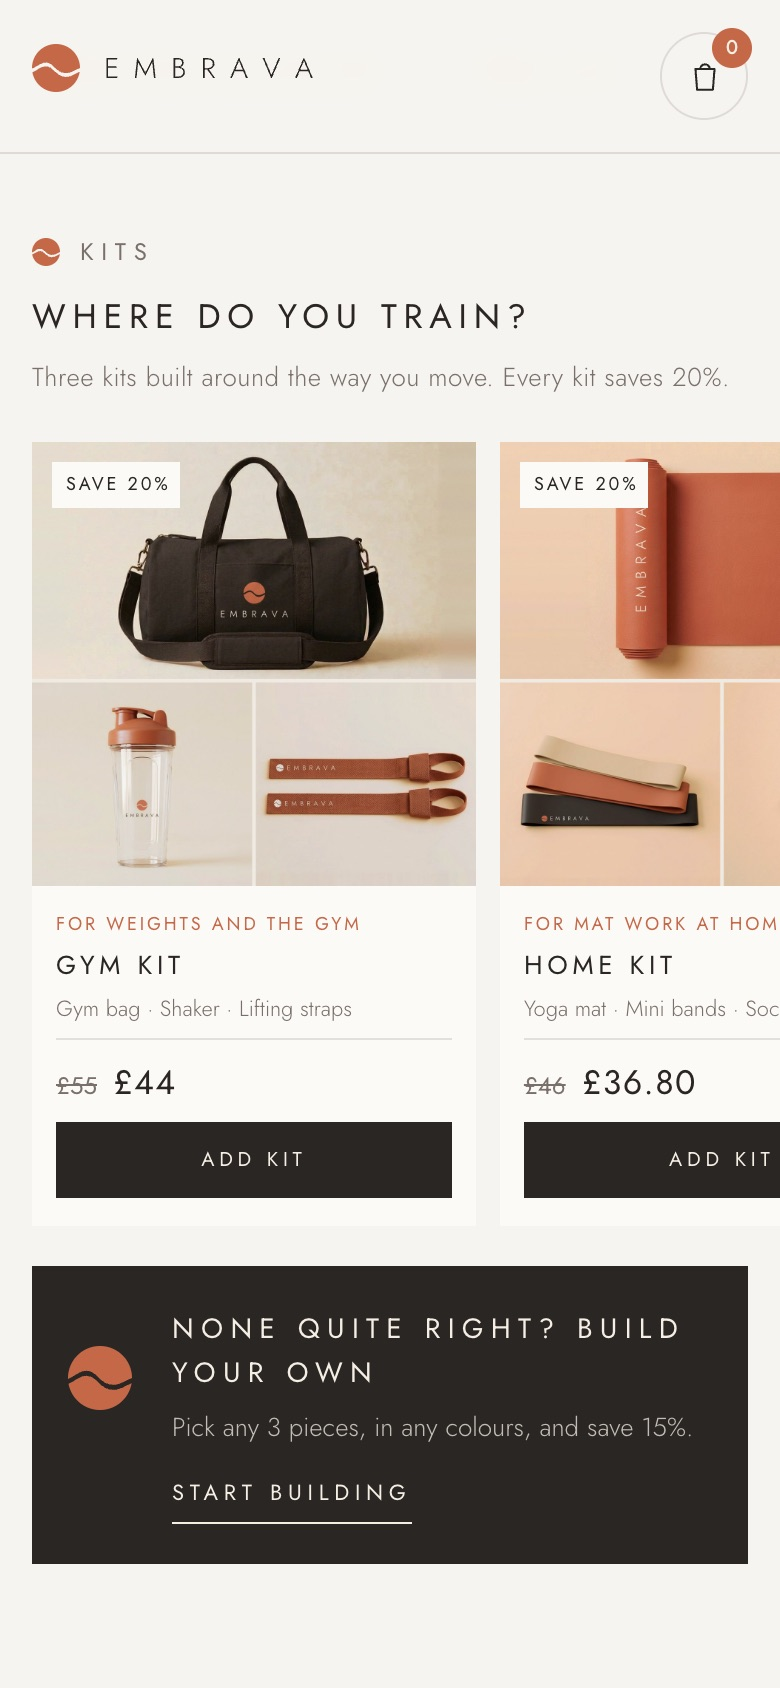
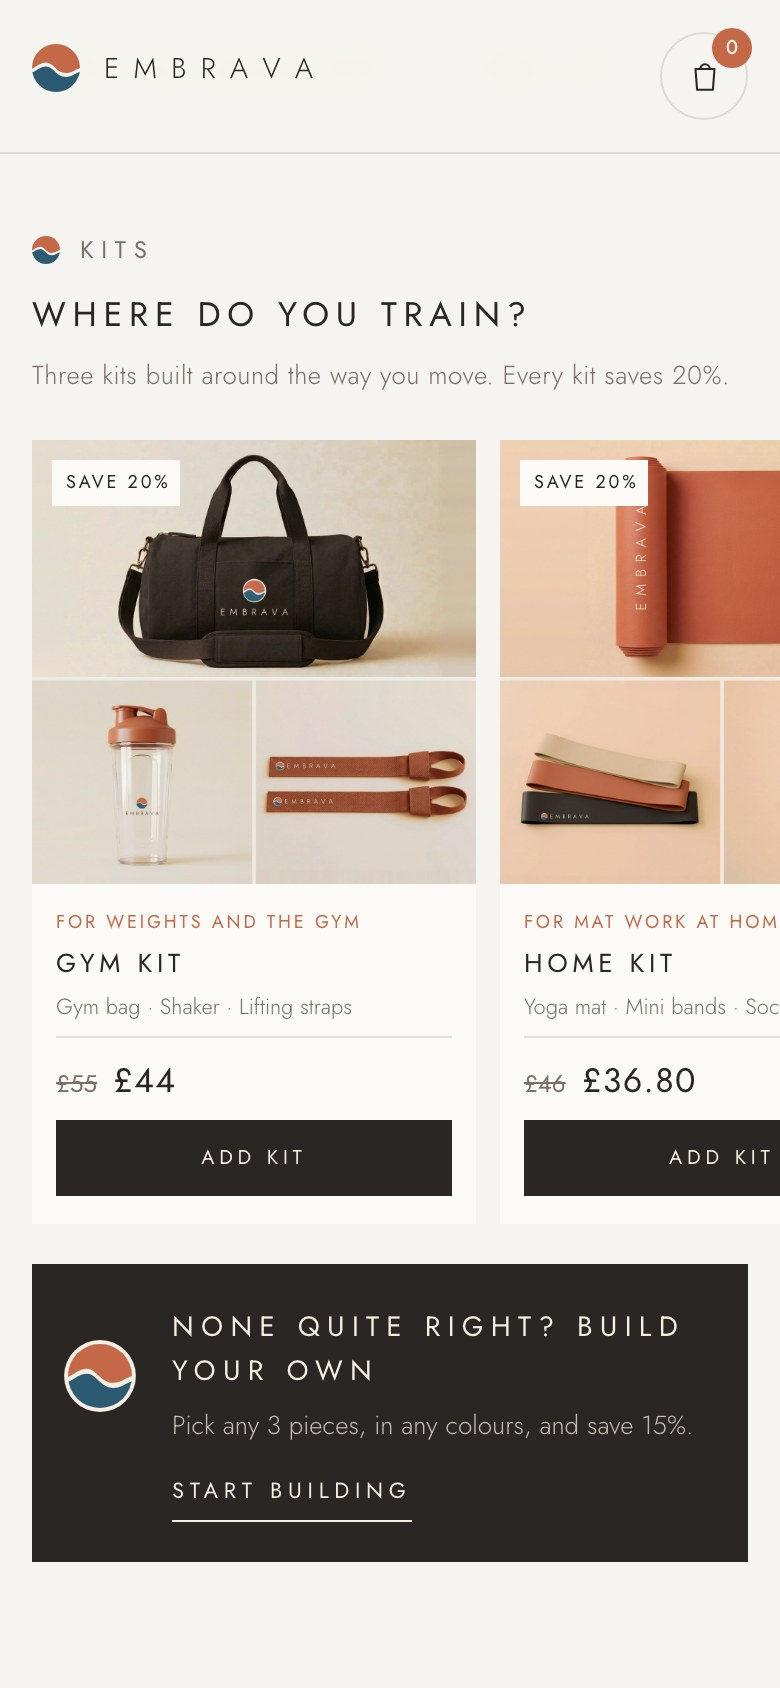
Actualiza Embrava con el nuevo símbolo de sol y mar a dos colores: textos, imagen de identidad y capturas

diff --git a/work/embrava.html b/work/embrava.html
@@ -109,10 +109,10 @@
       </div>
       <div class="quiz-intro">
         <h3 class="decisions-title">From a wave-shaped m to sun and sea</h3>
-        <p>The first logo drew the <em>m</em> as a wave inside the word. It had personality, but at small sizes, stitched or printed, it was hard to read and could look like a typo. I kept the name and the palette and split the logo into two pieces that work together or apart.</p>
+        <p>The first logo drew the <em>m</em> as a wave inside the word. It had personality, but at small sizes, stitched or printed, it was hard to read and could look like a typo. I kept the name and the warm palette, gave the sea its own blue, and split the logo into two pieces that work together or apart.</p>
       </div>
       <figure class="brand-board">
-        <img src="../images/embrava-brand.jpg" alt="Embrava brand board: the old and new logo side by side, the horizontal lockup, the symbol, the stacked lockup, the five-colour palette and the logo on a gym bag, bottle, tote, cap and shaker" width="1600" height="1313" loading="lazy">
+        <img src="../images/embrava-brand.jpg" alt="Embrava brand board: the old and new logo side by side, the horizontal lockup, the symbol, the stacked lockup, the palette with its new sea blue and the logo on a gym bag, bottle, tote, cap and shaker" width="1600" height="1313" loading="lazy">
         <figcaption>Before and after, the three logo versions, the palette and the logo on product.</figcaption>
       </figure>
       <ul class="quiz-points">
@@ -122,15 +122,15 @@
         </li>
         <li>
           <h4>A symbol of its own</h4>
-          <p>A circle cut by a wave: sun and sea. It no longer has to look like a letter, so it can sit alone on caps, socks, labels and social media.</p>
+          <p>A circle cut by a wave: a terracotta sun over a blue sea. With two colours the wave reads as a horizon, and it no longer has to look like a letter, so it can sit alone on caps, socks, labels and social media.</p>
         </li>
         <li>
-          <h4>Five warm colours</h4>
-          <p>Dark, terracotta, sand, cream and blush. Every product comes in the same palette, and the warmth sets the brand apart from the cold black of most fitness labels.</p>
+          <h4>Five warm colours and the sea</h4>
+          <p>Dark, terracotta, sand, cream and blush for every product, plus a sea blue that lives in the symbol. The warmth sets the brand apart from the cold black of most fitness labels.</p>
         </li>
         <li>
           <h4>The right mark for each piece</h4>
-          <p>The full lockup goes on bags, bottles and totes, and the symbol alone where space is tight. I put the new logo on every product photo, and the kit images are built from those same photos.</p>
+          <p>The full lockup goes on bags, bottles and totes, and the symbol alone where space is tight. It never changes colour: on dark and terracotta pieces it sits on a thin cream rim. I put the new logo on every product photo, and the kit images are built from those same photos.</p>
         </li>
       </ul>
     </div>
@@ -152,7 +152,7 @@
         </li>
         <li>
           <h4>Neutral interface, colour in the product</h4>
-          <p>Soft neutrals, square corners and light catalogue cards for both products and kits. Terracotta is kept for the symbol and the products, and the first row shows one piece in each colour.</p>
+          <p>Soft neutrals, square corners and light catalogue cards for both products and kits. Strong colour is kept for the symbol and the products, and the first row shows one piece in each colour.</p>
         </li>
       </ul>
     </div>
